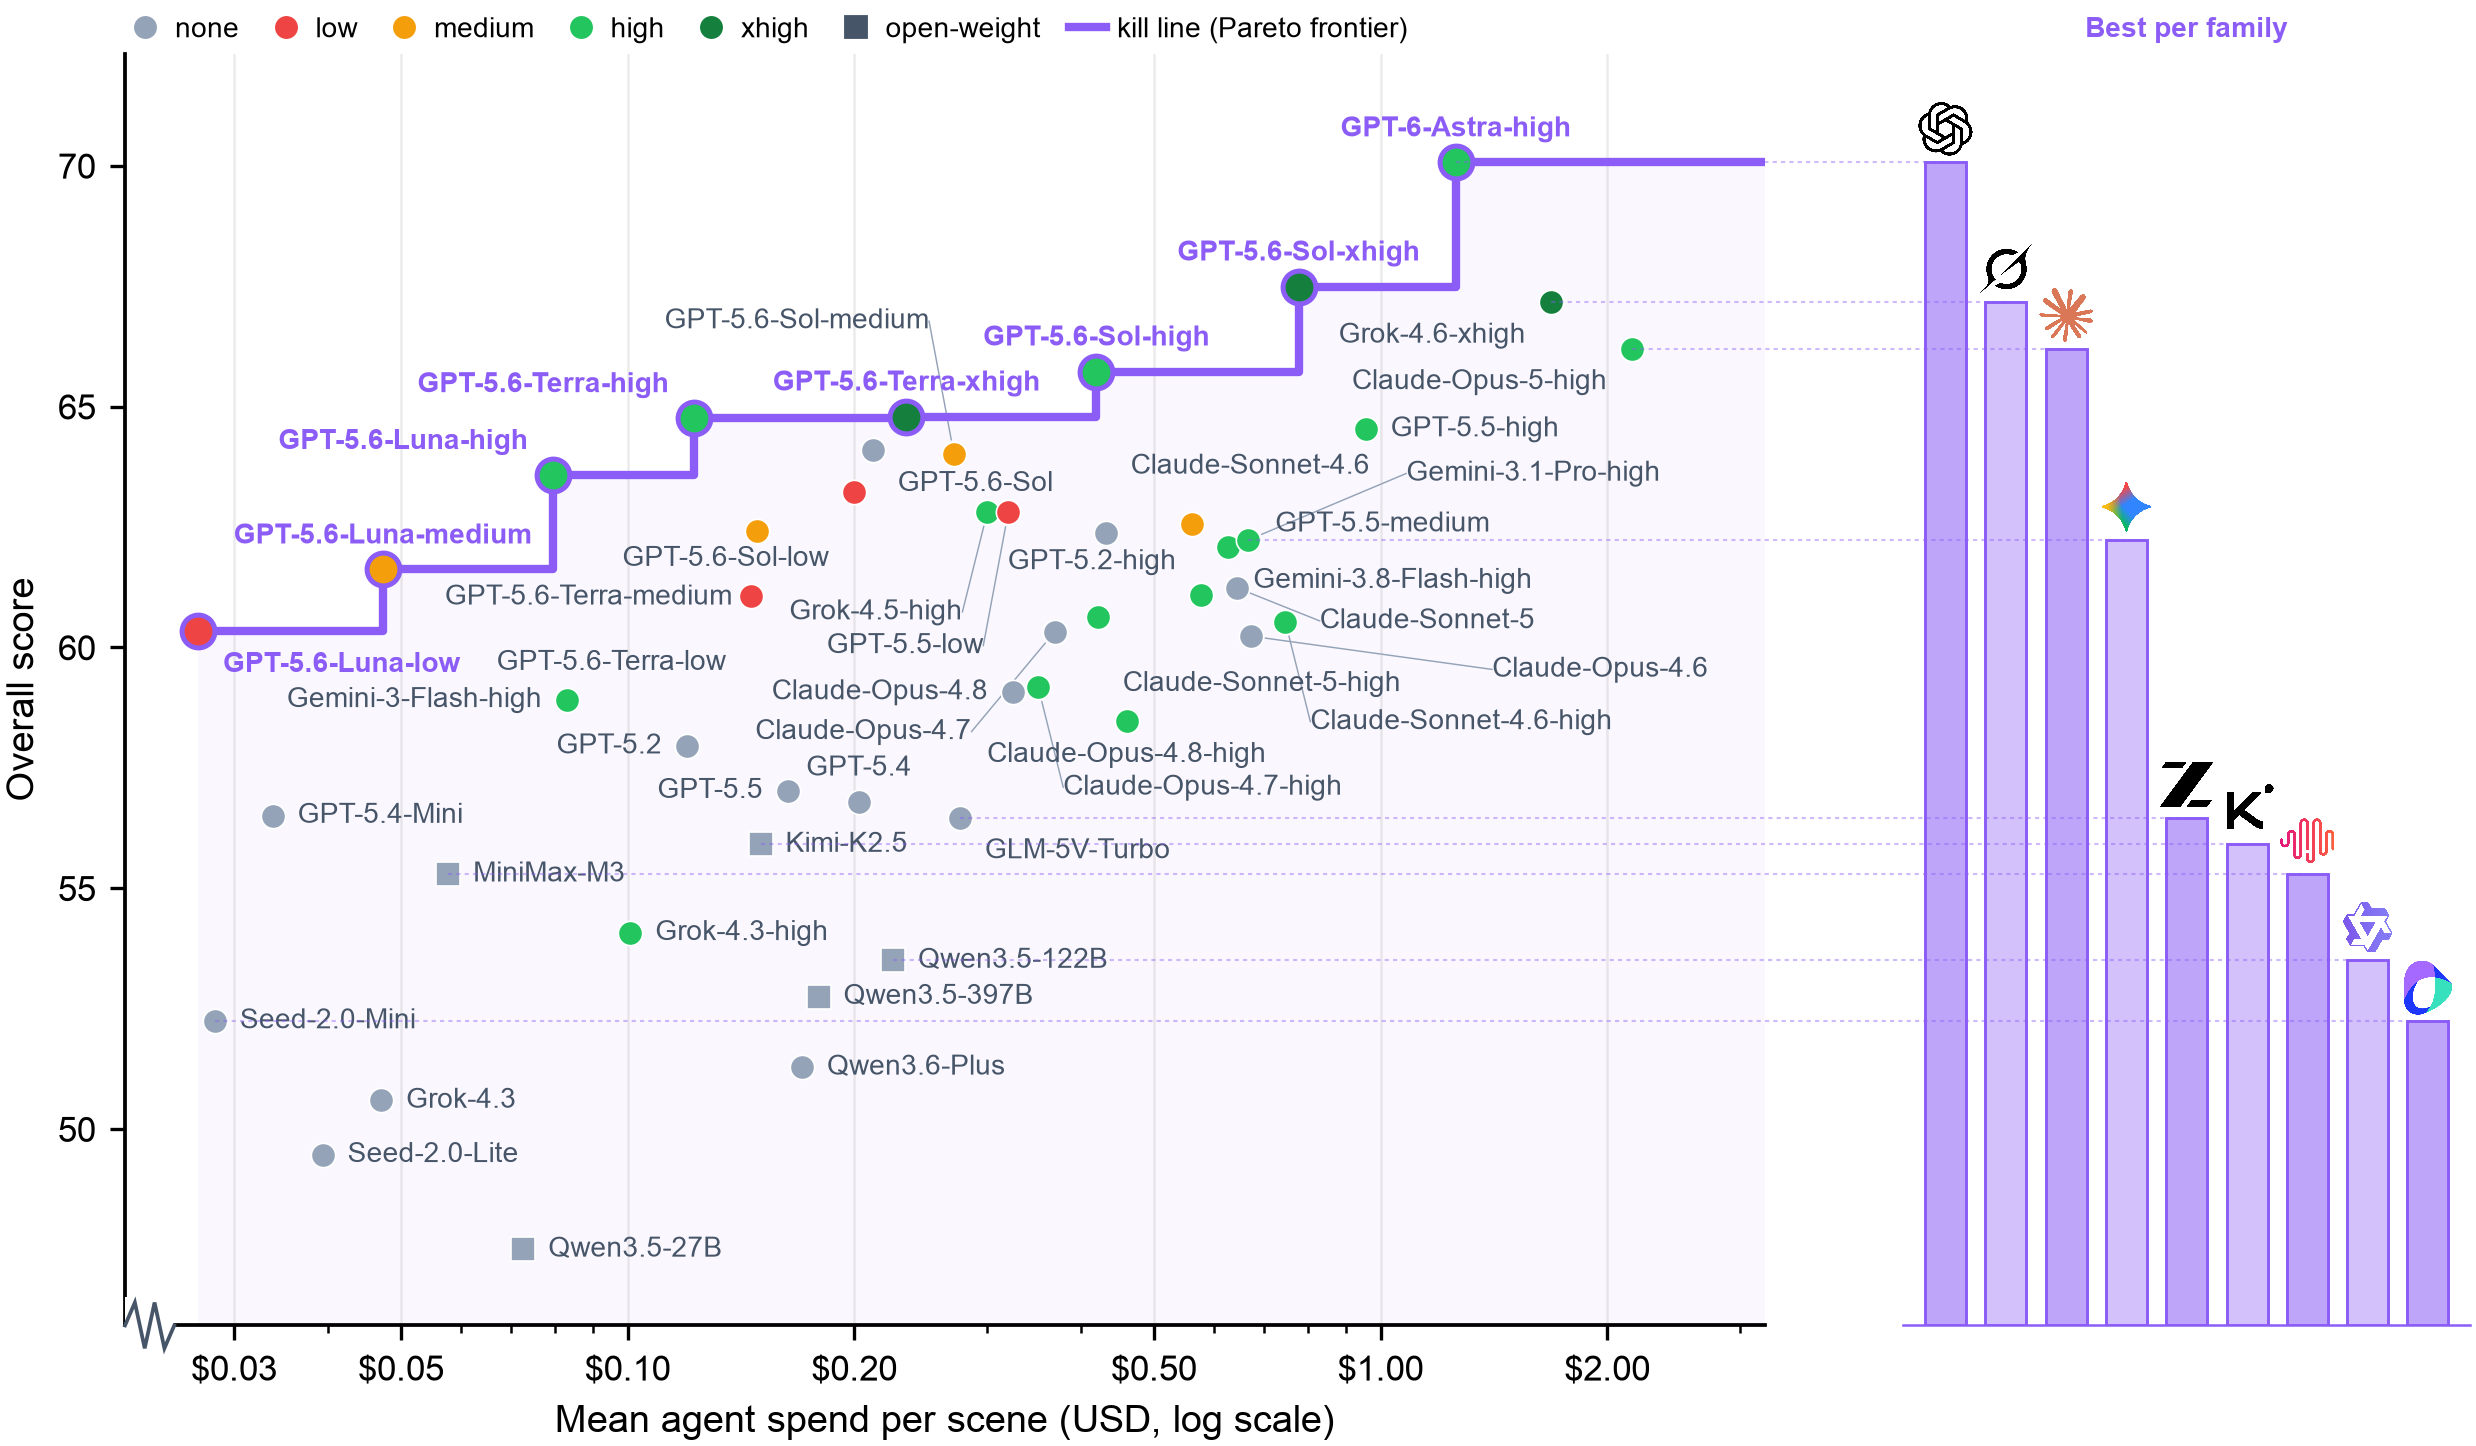
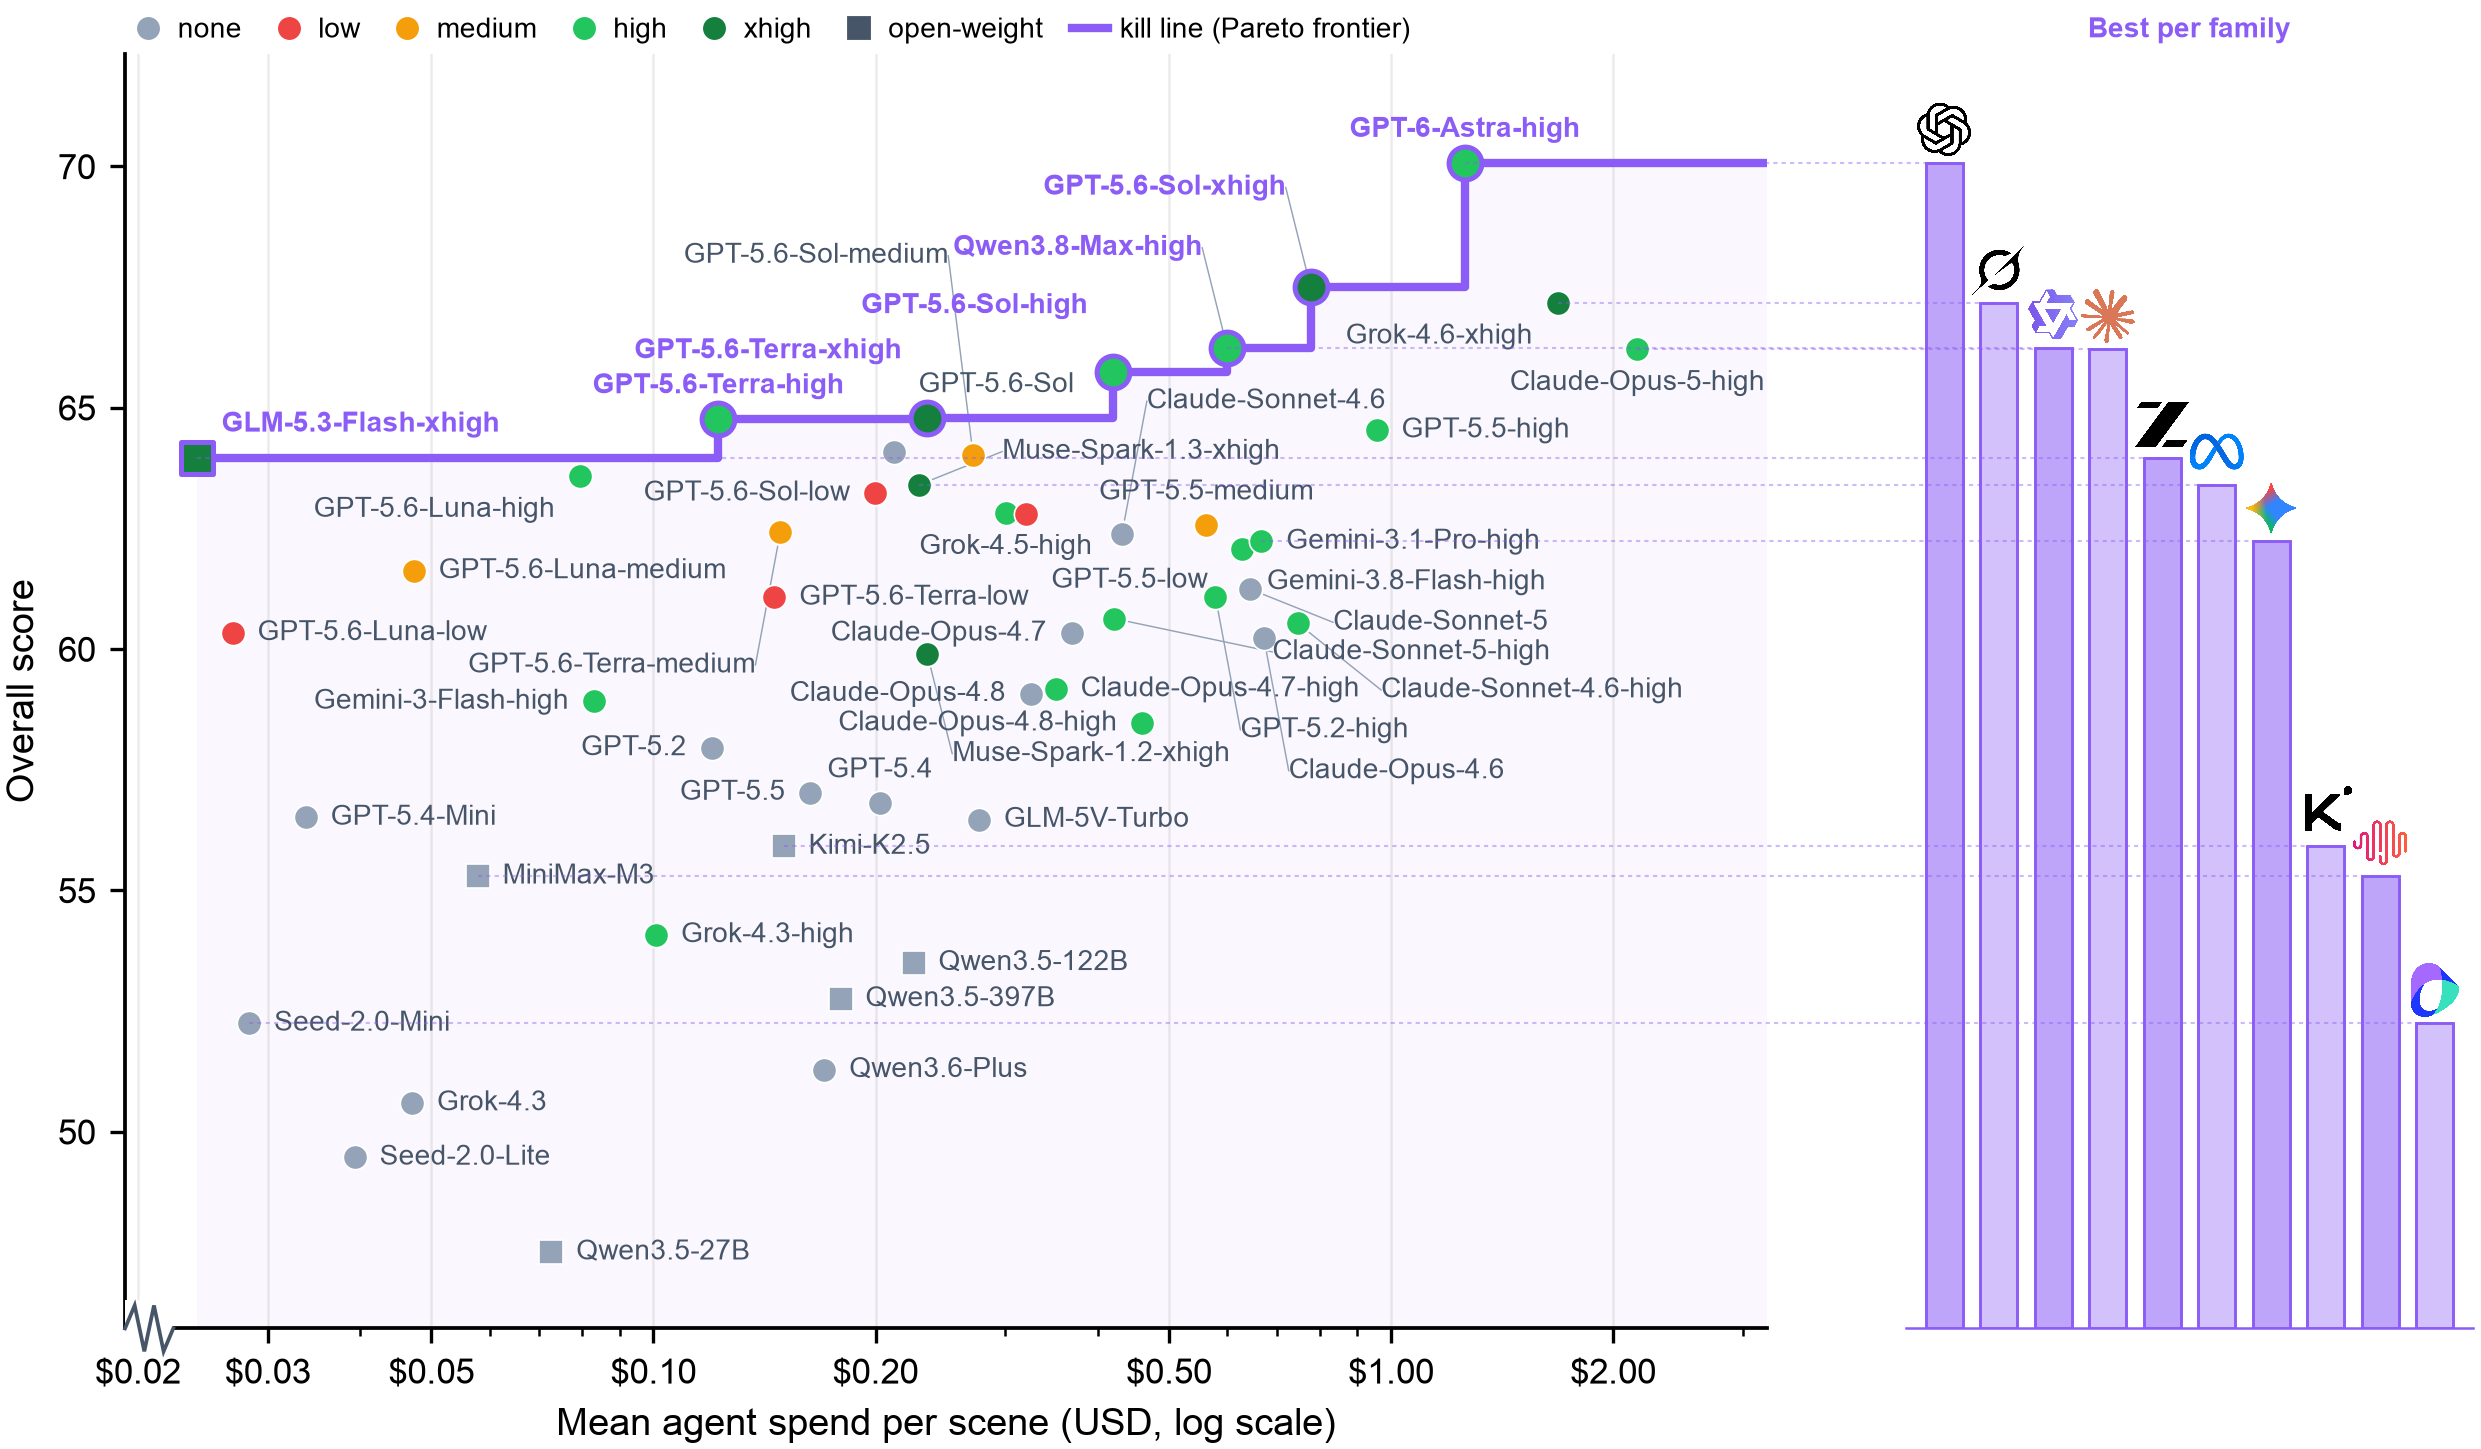
Update benchmark results for Muse Spark, GLM Flash and Qwen Max

diff --git a/README.md b/README.md
@@ -23,7 +23,7 @@ limit. External asset libraries are disallowed.
 
 <p align="center">
   <a href="https://yoloytang.me/BVB/">
-    <img src="assets/bvb-cost-frontier.png?v=afd7357e2ce3" alt="BVB Overall cost frontier across 47 configurations, including Grok 4.6 xhigh">
+    <img src="assets/bvb-cost-frontier.png?v=b467a96b9cef" alt="BVB Overall cost frontier across 51 configurations, including Grok 4.6 xhigh">
   </a>
 </p>
 
@@ -32,7 +32,7 @@ limit. External asset libraries are disallowed.
 - **288 real indoor videos** from the held-out VSI-Bench test split, sourced
   from ARKitScenes, ScanNet, and ScanNet++.
 - **5,130 spatiotemporal questions**, shared across all reconstructions.
-- **47 agent configurations across nine model families**, evaluated under one
+- **51 agent configurations across ten model families**, evaluated under one
   shared sandbox and prompt contract.
 - **Two complementary axes**: paired video-QA retention and frozen
   video-embedding similarity.
@@ -43,7 +43,7 @@ limit. External asset libraries are disallowed.
 
 The full interactive results are on the
 [project page](https://yoloytang.me/BVB/#leaderboard). A
-[CSV snapshot of all 47 configurations](assets/bvb-results.csv) is also included
+[CSV snapshot of all 51 configurations](assets/bvb-results.csv) is also included
 in this repository. This README focuses on the benchmark and reproducible workflow.
 
 ## Why programmatic reconstruction?
@@ -87,10 +87,10 @@ remain in the evaluation pool and score zero on both axes.
 
 ## What current agents reveal
 
-- **GPT-6 Astra high** leads the 47-configuration pool with **53.7 DV**,
+- **GPT-6 Astra high** leads the 51-configuration pool with **53.7 DV**,
   **88.6 LS**, and **70.07 Overall**.
 - **GPT-5.6 Sol xhigh** follows at 67.49 Overall, then **Grok-4.6 xhigh** at
-  **67.17** and **Claude Opus 5 high** at 66.21.
+  **67.17**, **Qwen3.8-Max high** at **66.24**, and **Claude Opus 5 high** at 66.21.
 - A blind study with **15 raters** agrees strongly with LS at the scene-model
   level (Spearman ρ = 0.83). Overall matches the human ordering of the five
   tested configurations (ρ = 1.00); Astra was not included in that study.
